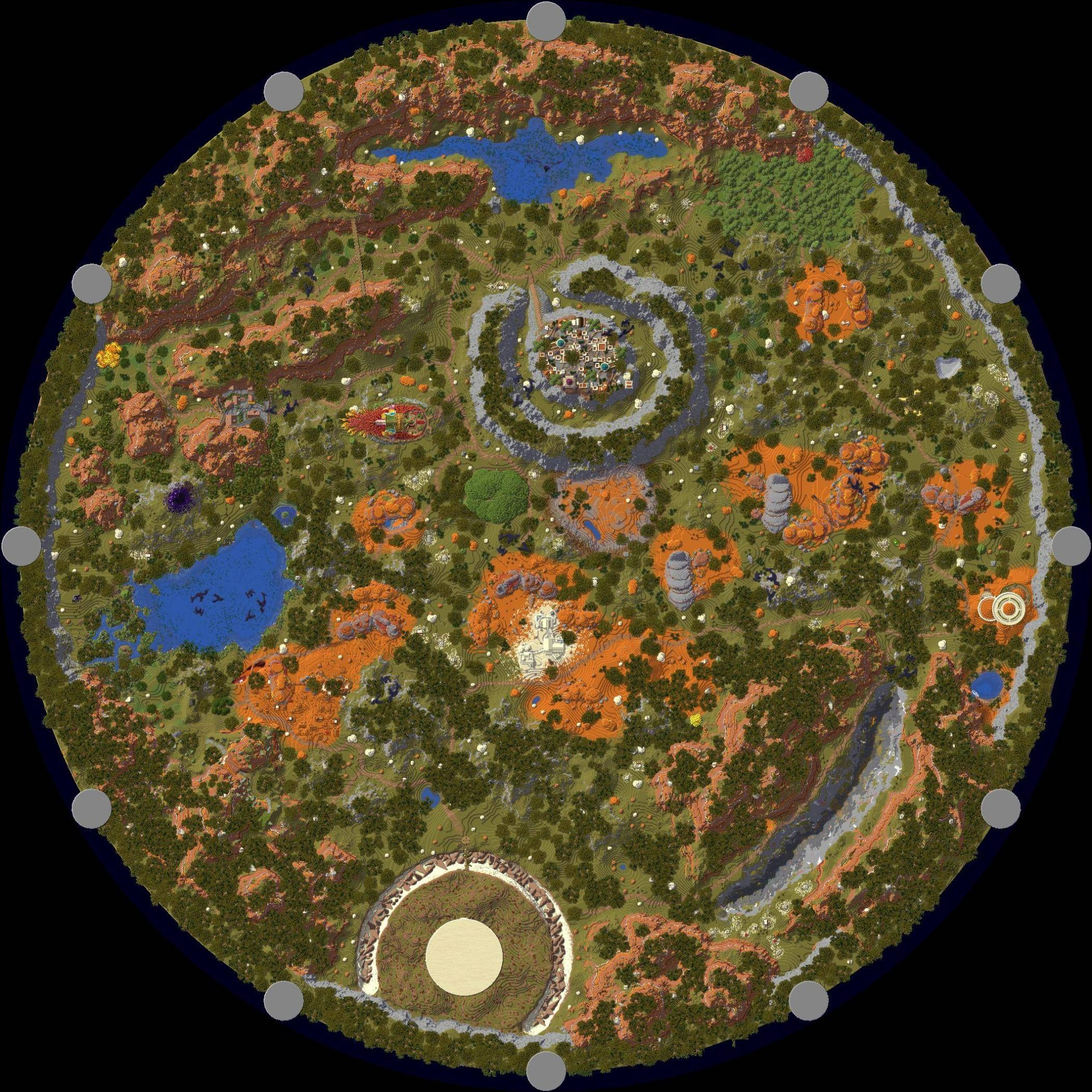
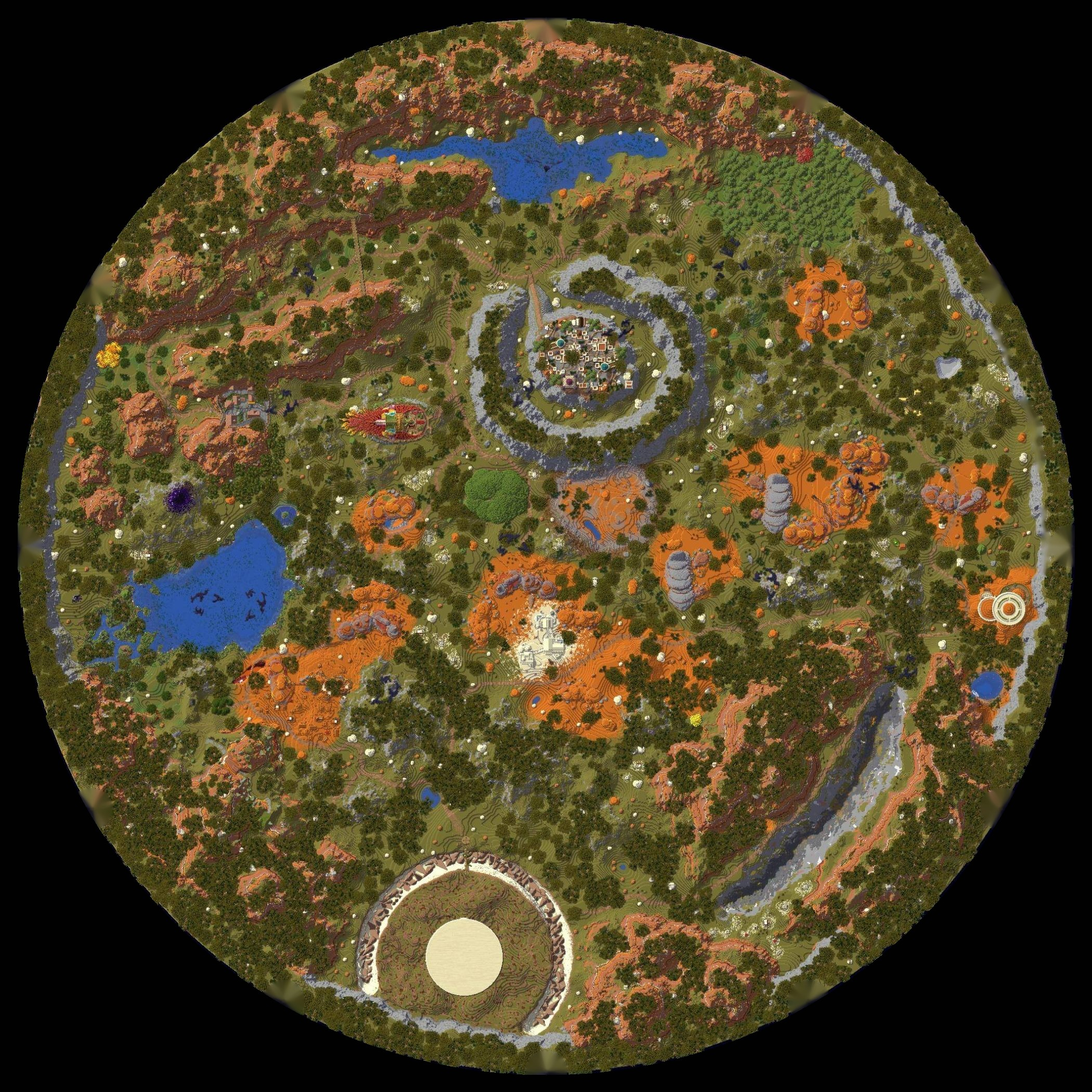
地下城排序與首領塔卡片、切樓層清掉舊頁；第 2 層地圖切圓、怪物區框線；滾輪縮放更順
Claude-Session: https://claude.ai/code/session_01TCxb7TWhtNUuHK8FFaNG7L

diff --git a/index.html b/index.html
@@ -2,7 +2,7 @@
 <html lang="zh-Hant">
 <head>
 <meta charset="utf-8">
-<meta name="sao-build" content="b604d936e0">
+<meta name="sao-build" content="c1f9dfb53b">
 <meta name="viewport" content="width=device-width, initial-scale=1, viewport-fit=cover">
 <meta name="description" content="阿爾戈的攻略本：SAO Minecraft 艾恩葛朗特（Aincrad）攻略，地圖、怪物、裝備、配方、任務、地下城、職業技能、世界王。">
 <style>:root{color-scheme:light;padding-top:env(safe-area-inset-top,0px);padding-bottom:env(safe-area-inset-bottom,0px)}body{margin:0;font:14px system-ui,-apple-system,"Segoe UI",sans-serif}img{max-width:100%}[hidden]{display:none!important}</style>
@@ -255,7 +255,7 @@ label.check{display:flex;gap:8px;align-items:center;font-size:13px;cursor:pointe
 /* ---------- map ---------- */
 .stage{position:relative;overflow:hidden;background:var(--stage);touch-action:none;cursor:grab;min-height:0}
 .stage.dragging{cursor:grabbing} .stage.edit{cursor:crosshair}
-.world{position:absolute;left:0;top:0;width:1000px;height:1000px;transform-origin:0 0;--inv:1}
+.world{position:absolute;left:0;top:0;width:1000px;height:1000px;transform-origin:0 0;--inv:1;will-change:transform}
 .world img.map{width:1000px;height:1000px;max-width:none;display:block;user-select:none;-webkit-user-drag:none;pointer-events:none}
 .town{position:absolute;transform:translate(-50%,-8px) scale(var(--inv));transform-origin:50% 8px;display:flex;flex-direction:column;align-items:center;gap:2px;background:none;border:0;padding:0;cursor:pointer;z-index:5}
 .town .pin{box-sizing:border-box;width:16px;height:16px;transform:rotate(45deg) scale(.82);background:var(--accent);border:2px solid #fff;box-shadow:0 1px 4px rgba(0,0,0,.6)}
@@ -394,6 +394,7 @@ aside.mapside{background:var(--panel);border-left:1px solid var(--line);display:
   padding-block:5px;padding-left:max(16px,env(safe-area-inset-left,0px));padding-right:max(16px,env(safe-area-inset-right,0px))}
 .floorinfo b{font-family:var(--f-display);color:var(--fg);font-size:13.5px}
 .floorinfo .soon{color:var(--warn)}
+.card.dgtower{border-color:color-mix(in srgb,var(--boss) 55%,var(--line));background:color-mix(in srgb,var(--boss) 7%,var(--panel))}.pill.dgtw{border-color:var(--boss);color:var(--boss);font-weight:600}
 @media (max-width:820px){.floorinfo:not(:has(.soon,.pausebar)){display:none}.floorinfo>:not(.soon,.pausebar){display:none}}
 .floorinfo .pausebar{flex:1 1 100%;font-size:15.5px;line-height:1.55;color:var(--fg);background:color-mix(in srgb,#d32f2f 15%,transparent);border:1px solid color-mix(in srgb,#d32f2f 45%,transparent);border-left:5px solid #d32f2f;border-radius:5px;padding:9px 14px;margin:3px 0;text-wrap:balance}.floorinfo .pausebar b{color:#d32f2f;font-weight:700}@media (prefers-color-scheme:dark){:root:not([data-theme="light"]) .floorinfo .pausebar b{color:#ff7b7b}}:root[data-theme="dark"] .floorinfo .pausebar b{color:#ff7b7b}
 @media (max-width:820px){.floorinfo .pausebar{font-size:12.5px;padding:5px 10px;border-left-width:4px;cursor:pointer}.floorinfo .pausebar>span{display:-webkit-box;-webkit-box-orient:vertical;-webkit-line-clamp:2;overflow:hidden}.floorinfo .pausebar.open>span{display:block;-webkit-line-clamp:unset}}   /* phones: 2 lines, tap to read all; site-wide pause notice (user 2026-11-09: the collab-only note was not visible enough) */
@@ -888,7 +889,7 @@ h3.sec .c{font-family:var(--f-mono);letter-spacing:0}
 </aside>
 
 <script src="data.js?v=a4992864"></script>
-<script src="data23.js?v=0ff12f91"></script>
+<script src="data23.js?v=1c64a18a"></script>
 <script src="bosses.js?v=77b7ad43"></script>
 <script src="reports.js?v=091d538a"></script>
 <script src="hints.js?v=fcf000d6"></script>
@@ -899,7 +900,7 @@ h3.sec .c{font-family:var(--f-mono);letter-spacing:0}
 <script src="props.js?v=a6c9503f"></script>
 <script src="gameinfo.js?v=0e23c6f2"></script><script src="buyback.js?v=4371e5e3"></script>
 <script src="npcs.js?v=e7d05b11"></script>
-<script src="changelog.js?v=d8cb16fa"></script>
+<script src="changelog.js?v=a7a2fee3"></script>
 <script src="recipes.js?v=9163d1ce"></script>
 <script src="jmmeta.js?v=7238858b"></script>
 <script src="formcfg.js?v=54663be2"></script>
@@ -1765,16 +1766,21 @@ const clsWeap=c=>Object.entries(Object.assign({},c.weapons,(n=>n?{catalyst:n}:{}
 const CLS_OFF=new Set(["guerrier","assassin","mage","shaman","archer"]);const cN=c=>CLS_OFF.has(c.id)?c.zh:c.name;const cSub=c=>(CLS_OFF.has(c.id)?c.name:c.zh)+"・"+c.role;
 const clsSoon=c=>!Object.keys(c.weapons).length&&!c.base.length;
 // ---- dungeons tab (preliminary, user 2026-11-02: only the dungeon names for now; floor-boss towers are left out) ----
-function renderDungeons(){const s=Sq();const a=spotsOf(FL).filter(x=>x.kind==="dungeon"&&(!s||norm([x.n,x.zh].join(" ")).includes(s)));   // floor-boss towers too (user 2026-11-11)
+const isTowerSp=sp=>/樓層首領/.test(sp.zh||"");
+function renderDungeons(){const s=Sq();const a0=spotsOf(FL).filter(x=>x.kind==="dungeon"&&(!s||norm([x.n,x.zh].join(" ")).includes(s)));   // floor-boss towers too (user 2026-11-11)
+  const a=a0.filter(isTowerSp).concat(a0.filter(x=>!isTowerSp(x)));   // order: event, floor-boss tower, other dungeons (user 2026-11-11)
   const ev=FL===1?EVT.dungeons.filter(d=>!s||norm(JSON.stringify(d)).includes(s)):[];   // the event dungeon is entered from floor 1 (user 2026-11-11: 二三層出現了 Sanctuary of Souls)
   $("cDg").textContent=`${a.length+ev.length} 個`;
   // card icon = the dungeon's own key (user 2026-11-07「圖示用各自的鑰匙」); no key known / no clean key picture → the old emoji
   const keyOf=sp=>{const k=dgKeys(sp).hit[0];return k?{r:k,n:recZh(k)||k.en}:null};
   const ic=(k,emo)=>k?`<span class="th dgk" style="--ring:var(--boss)" aria-hidden="true">${recIcon(k.r,30)}</span>`:`<span class="th" style="--ring:var(--boss)" aria-hidden="true">${emo}</span>`;
-  $("lDg").innerHTML=ev.map(d=>`<button class="card" data-go="d|${d.id}" data-key="d|${d.id}"><div class="chead">${ic(null,"🎃")}<div class="cname"><b>${esc(d.n)}</b><span>${esc(d.zh)}</span></div></div><div class="cmeta"><span class="pill">限時活動</span><span class="pill">各層通用</span></div><div class="muted dgkn">鑰匙：${esc(d.key.n)}</div></button>`).join("")
-    +a.map(sp=>{const k=keyOf(sp);return`<button class="card" data-go="s|${sp.id}" data-key="s|${sp.id}"><div class="chead">${ic(k,"⚔")}<div class="cname"><b>${esc(pN(sp))}</b><span>${esc(pN(sp)!==sp.n?sp.n:sp.zh)}</span></div></div><div class="muted dgkn">${k?"鑰匙："+esc(k.n):"鑰匙：還沒有資料"}</div></button>`}).join("")||`<div class="empty-note">${s?"沒有符合的地下城。":"這一層還沒有地下城資料。"}</div>`;
+  $("lDg").innerHTML=ev.map(d=>`<button class="card" data-go="d|${d.id}" data-key="d|${d.id}"><div class="chead">${ic(null,"🎃")}<div class="cname"><b>${esc(d.n)}</b><span>${esc(d.zh)}</span></div></div><div class="cmeta"><span class="pill">限時活動</span></div><div class="muted dgkn">鑰匙：${esc(d.key.n)}</div></button>`).join("")
+    +a.map(sp=>{const k=keyOf(sp),tw=isTowerSp(sp);return`<button class="card${tw?" dgtower":""}" data-go="s|${sp.id}" data-key="s|${sp.id}"><div class="chead">${ic(k,tw?"🗼":"⚔")}<div class="cname"><b>${esc(pN(sp))}</b><span>${esc(pN(sp)!==sp.n?sp.n:sp.zh)}</span></div></div>${tw?`<div class="cmeta"><span class="pill dgtw">樓層首領塔</span></div>`:""}<div class="muted dgkn">${k?"鑰匙："+esc(k.n):"鑰匙：還沒有資料"}</div></button>`}).join("")||`<div class="empty-note">${s?"沒有符合的地下城。":"這一層還沒有地下城資料。"}</div>`;
   bindGo($("lDg"));
-  if(innerWidth>820&&(ev.length||a.length)&&(panel.hidden||!isDgP(stack[0]))){const all=[...ev.map(d=>"d|"+d.id),...a.map(sp=>"s|"+sp.id)];const [t,i]=(all.includes(lastDg)?lastDg:all[0]).split("|");openP(t,i)}
+  // keep the page in step with this floor's list: switching floors used to leave the previous floor's dungeon on the page (user 2026-11-11)
+  if(innerWidth>820){const all=[...ev.map(d=>"d|"+d.id),...a.map(sp=>"s|"+sp.id)],cur=stack[0]&&isDgP(stack[0])?stack[0].type+"|"+stack[0].id:"";
+    if(!all.length){if(!panel.hidden&&cur)closeP()}
+    else if(panel.hidden||!all.includes(cur)){const [t,i]=(all.includes(lastDg)?lastDg:all[0]).split("|");openP(t,i)}}
   markSel();fitClsPanel()}
 function evDgDetail(id){const d=EVT.dungeons.find(x=>x.id===id);if(!d)return`<div class="note">找不到這個活動。</div>`;
   const tb=(head,rows)=>`<div class="tblwrap"><table class="btbl"><thead><tr>${head.map(h=>`<th>${h}</th>`).join("")}</tr></thead><tbody>${rows.map(r=>`<tr>${r.map(c=>`<td>${c}</td>`).join("")}</tr>`).join("")}</tbody></table></div>`;
@@ -3146,14 +3152,24 @@ function updateTiles(){tileRaf=0;const m=MP();if(!useTiles()){if(TL.size){tilesE
   clearTimeout(tileGC);tileGC=setTimeout(()=>{TL.forEach((im,k)=>{if(!want.has(k)&&!/^[01]\//.test(k)){im.remove();TL.delete(k)}})},700)}
 const schedTiles=()=>{if(!tileRaf)tileRaf=requestAnimationFrame(updateTiles)};
 window.addEventListener("resize",schedTiles);
-function apply(){schedTiles();declutterSoon();world.style.transform=`translate(${tx}px,${ty}px) scale(${sc})`;const zr=fitSc()/sc;const k=Math.max(.8,Math.min(1,fitSc()/.75)),screen=k*Math.max(.92,Math.min(1.08,1.08*Math.pow(zr,.12)));world.style.setProperty("--inv",screen/sc);world.style.setProperty("--tk",Math.max(.62,Math.min(1,.62*Math.pow(1/zr,.23))).toFixed(3));world.style.setProperty("--areaw",Math.max(.7,Math.min(2,2*Math.pow(zr,.5))).toFixed(2));world.classList.toggle("compact",sc<fitSc()*1.9)}
+// wheel zoom felt laggy (user 2026-11-11): the label-size variables restyle every marker, so while the wheel is turning they are only
+// refreshed when the zoom changed by 12 % or more, and once more 120 ms after the last wheel step; the map transform itself moves every frame
+let ZOOMING=false,zoomEndT=0,varSc=0;
+function apply(){schedTiles();declutterSoon();world.style.transform=`translate(${tx}px,${ty}px) scale(${sc})`;
+  if(ZOOMING&&varSc&&Math.abs(Math.log(sc/varSc))<.12){clearTimeout(zoomEndT);zoomEndT=setTimeout(()=>{ZOOMING=false;applyVars()},120);return}
+  applyVars()}
+function applyVars(){varSc=sc;const zr=fitSc()/sc;const k=Math.max(.8,Math.min(1,fitSc()/.75)),screen=k*Math.max(.92,Math.min(1.08,1.08*Math.pow(zr,.12)));world.style.setProperty("--inv",screen/sc);world.style.setProperty("--tk",Math.max(.62,Math.min(1,.62*Math.pow(1/zr,.23))).toFixed(3));world.style.setProperty("--areaw",Math.max(.7,Math.min(2,2*Math.pow(zr,.5))).toFixed(2));world.classList.toggle("compact",sc<fitSc()*1.9)}
 function fit(){const r=stage.getBoundingClientRect();if(!r.width)return;sc=fitSc();tx=(r.width-1000*sc)/2;ty=(r.height-1000*sc)/2;apply();fitted=true}
 function zoomAt(f,cx,cy){const ns=Math.max(fitSc()*.8,Math.min(fitSc()*10,sc*f));const k=ns/sc;tx=cx-(cx-tx)*k;ty=cy-(cy-ty)*k;sc=ns;apply()}
 function centerOn(bx,bz,minZoom){if(!MP())return;if(!fitted)fit();const r=stage.getBoundingClientRect();sc=Math.max(sc,fitSc()*(minZoom||2.2));
   const mobile=matchMedia("(max-width:820px)").matches;const cx=mobile?r.width/2:(r.width-(panel.hidden?0:Math.max(0,410-(innerWidth-r.right))))/2;
   tx=cx-toPxX(bx)*sc;ty=r.height/2-toPxZ(bz)*sc;apply()}
 window.__centerOn=centerOn;   // tests/jm_pack_test.py
-stage.addEventListener("wheel",e=>{if(!MP())return;e.preventDefault();const r=stage.getBoundingClientRect();zoomAt(e.deltaY<0?1.15:1/1.15,e.clientX-r.left,e.clientY-r.top)},{passive:false});
+// one zoom step per animation frame; trackpads send many small deltas, a mouse notch is about 100 px (≈ ×1.2)
+let wheelF=1,wheelXY=null,wheelRaf=0;
+stage.addEventListener("wheel",e=>{if(!MP())return;e.preventDefault();const r=stage.getBoundingClientRect();const d=e.deltaMode===1?e.deltaY*33:e.deltaMode===2?e.deltaY*400:e.deltaY;
+  wheelF*=Math.exp(-Math.max(-150,Math.min(150,d))*.0018);wheelXY=[e.clientX-r.left,e.clientY-r.top];ZOOMING=true;
+  if(!wheelRaf)wheelRaf=requestAnimationFrame(()=>{wheelRaf=0;const f=wheelF;wheelF=1;zoomAt(f,wheelXY[0],wheelXY[1])})},{passive:false});
 const pts=new Map();let moved=0,pinch0=null;
 stage.addEventListener("pointerdown",e=>{if(!MP()||e.target.closest(".zoombtns"))return;pts.set(e.pointerId,{x:e.clientX,y:e.clientY});moved=0;if(pts.size===2){const [a,b]=[...pts.values()];pinch0={d:Math.hypot(a.x-b.x,a.y-b.y),sc}}});
 window.addEventListener("pointermove",e=>{if(!MP())return;const r=stage.getBoundingClientRect();

diff --git a/src/index.html b/src/index.html
@@ -247,7 +247,7 @@ label.check{display:flex;gap:8px;align-items:center;font-size:13px;cursor:pointe
 /* ---------- map ---------- */
 .stage{position:relative;overflow:hidden;background:var(--stage);touch-action:none;cursor:grab;min-height:0}
 .stage.dragging{cursor:grabbing} .stage.edit{cursor:crosshair}
-.world{position:absolute;left:0;top:0;width:1000px;height:1000px;transform-origin:0 0;--inv:1}
+.world{position:absolute;left:0;top:0;width:1000px;height:1000px;transform-origin:0 0;--inv:1;will-change:transform}
 .world img.map{width:1000px;height:1000px;max-width:none;display:block;user-select:none;-webkit-user-drag:none;pointer-events:none}
 .town{position:absolute;transform:translate(-50%,-8px) scale(var(--inv));transform-origin:50% 8px;display:flex;flex-direction:column;align-items:center;gap:2px;background:none;border:0;padding:0;cursor:pointer;z-index:5}
 .town .pin{box-sizing:border-box;width:16px;height:16px;transform:rotate(45deg) scale(.82);background:var(--accent);border:2px solid #fff;box-shadow:0 1px 4px rgba(0,0,0,.6)}
@@ -386,6 +386,7 @@ aside.mapside{background:var(--panel);border-left:1px solid var(--line);display:
   padding-block:5px;padding-left:max(16px,env(safe-area-inset-left,0px));padding-right:max(16px,env(safe-area-inset-right,0px))}
 .floorinfo b{font-family:var(--f-display);color:var(--fg);font-size:13.5px}
 .floorinfo .soon{color:var(--warn)}
+.card.dgtower{border-color:color-mix(in srgb,var(--boss) 55%,var(--line));background:color-mix(in srgb,var(--boss) 7%,var(--panel))}.pill.dgtw{border-color:var(--boss);color:var(--boss);font-weight:600}
 @media (max-width:820px){.floorinfo:not(:has(.soon,.pausebar)){display:none}.floorinfo>:not(.soon,.pausebar){display:none}}
 .floorinfo .pausebar{flex:1 1 100%;font-size:15.5px;line-height:1.55;color:var(--fg);background:color-mix(in srgb,#d32f2f 15%,transparent);border:1px solid color-mix(in srgb,#d32f2f 45%,transparent);border-left:5px solid #d32f2f;border-radius:5px;padding:9px 14px;margin:3px 0;text-wrap:balance}.floorinfo .pausebar b{color:#d32f2f;font-weight:700}@media (prefers-color-scheme:dark){:root:not([data-theme="light"]) .floorinfo .pausebar b{color:#ff7b7b}}:root[data-theme="dark"] .floorinfo .pausebar b{color:#ff7b7b}
 @media (max-width:820px){.floorinfo .pausebar{font-size:12.5px;padding:5px 10px;border-left-width:4px;cursor:pointer}.floorinfo .pausebar>span{display:-webkit-box;-webkit-box-orient:vertical;-webkit-line-clamp:2;overflow:hidden}.floorinfo .pausebar.open>span{display:block;-webkit-line-clamp:unset}}   /* phones: 2 lines, tap to read all; site-wide pause notice (user 2026-11-09: the collab-only note was not visible enough) */
@@ -1754,16 +1755,21 @@ const clsWeap=c=>Object.entries(Object.assign({},c.weapons,(n=>n?{catalyst:n}:{}
 const CLS_OFF=new Set(["guerrier","assassin","mage","shaman","archer"]);const cN=c=>CLS_OFF.has(c.id)?c.zh:c.name;const cSub=c=>(CLS_OFF.has(c.id)?c.name:c.zh)+"・"+c.role;
 const clsSoon=c=>!Object.keys(c.weapons).length&&!c.base.length;
 // ---- dungeons tab (preliminary, user 2026-11-02: only the dungeon names for now; floor-boss towers are left out) ----
-function renderDungeons(){const s=Sq();const a=spotsOf(FL).filter(x=>x.kind==="dungeon"&&(!s||norm([x.n,x.zh].join(" ")).includes(s)));   // floor-boss towers too (user 2026-11-11)
+const isTowerSp=sp=>/樓層首領/.test(sp.zh||"");
+function renderDungeons(){const s=Sq();const a0=spotsOf(FL).filter(x=>x.kind==="dungeon"&&(!s||norm([x.n,x.zh].join(" ")).includes(s)));   // floor-boss towers too (user 2026-11-11)
+  const a=a0.filter(isTowerSp).concat(a0.filter(x=>!isTowerSp(x)));   // order: event, floor-boss tower, other dungeons (user 2026-11-11)
   const ev=FL===1?EVT.dungeons.filter(d=>!s||norm(JSON.stringify(d)).includes(s)):[];   // the event dungeon is entered from floor 1 (user 2026-11-11: 二三層出現了 Sanctuary of Souls)
   $("cDg").textContent=`${a.length+ev.length} 個`;
   // card icon = the dungeon's own key (user 2026-11-07「圖示用各自的鑰匙」); no key known / no clean key picture → the old emoji
   const keyOf=sp=>{const k=dgKeys(sp).hit[0];return k?{r:k,n:recZh(k)||k.en}:null};
   const ic=(k,emo)=>k?`<span class="th dgk" style="--ring:var(--boss)" aria-hidden="true">${recIcon(k.r,30)}</span>`:`<span class="th" style="--ring:var(--boss)" aria-hidden="true">${emo}</span>`;
-  $("lDg").innerHTML=ev.map(d=>`<button class="card" data-go="d|${d.id}" data-key="d|${d.id}"><div class="chead">${ic(null,"🎃")}<div class="cname"><b>${esc(d.n)}</b><span>${esc(d.zh)}</span></div></div><div class="cmeta"><span class="pill">限時活動</span><span class="pill">各層通用</span></div><div class="muted dgkn">鑰匙：${esc(d.key.n)}</div></button>`).join("")
-    +a.map(sp=>{const k=keyOf(sp);return`<button class="card" data-go="s|${sp.id}" data-key="s|${sp.id}"><div class="chead">${ic(k,"⚔")}<div class="cname"><b>${esc(pN(sp))}</b><span>${esc(pN(sp)!==sp.n?sp.n:sp.zh)}</span></div></div><div class="muted dgkn">${k?"鑰匙："+esc(k.n):"鑰匙：還沒有資料"}</div></button>`}).join("")||`<div class="empty-note">${s?"沒有符合的地下城。":"這一層還沒有地下城資料。"}</div>`;
+  $("lDg").innerHTML=ev.map(d=>`<button class="card" data-go="d|${d.id}" data-key="d|${d.id}"><div class="chead">${ic(null,"🎃")}<div class="cname"><b>${esc(d.n)}</b><span>${esc(d.zh)}</span></div></div><div class="cmeta"><span class="pill">限時活動</span></div><div class="muted dgkn">鑰匙：${esc(d.key.n)}</div></button>`).join("")
+    +a.map(sp=>{const k=keyOf(sp),tw=isTowerSp(sp);return`<button class="card${tw?" dgtower":""}" data-go="s|${sp.id}" data-key="s|${sp.id}"><div class="chead">${ic(k,tw?"🗼":"⚔")}<div class="cname"><b>${esc(pN(sp))}</b><span>${esc(pN(sp)!==sp.n?sp.n:sp.zh)}</span></div></div>${tw?`<div class="cmeta"><span class="pill dgtw">樓層首領塔</span></div>`:""}<div class="muted dgkn">${k?"鑰匙："+esc(k.n):"鑰匙：還沒有資料"}</div></button>`}).join("")||`<div class="empty-note">${s?"沒有符合的地下城。":"這一層還沒有地下城資料。"}</div>`;
   bindGo($("lDg"));
-  if(innerWidth>820&&(ev.length||a.length)&&(panel.hidden||!isDgP(stack[0]))){const all=[...ev.map(d=>"d|"+d.id),...a.map(sp=>"s|"+sp.id)];const [t,i]=(all.includes(lastDg)?lastDg:all[0]).split("|");openP(t,i)}
+  // keep the page in step with this floor's list: switching floors used to leave the previous floor's dungeon on the page (user 2026-11-11)
+  if(innerWidth>820){const all=[...ev.map(d=>"d|"+d.id),...a.map(sp=>"s|"+sp.id)],cur=stack[0]&&isDgP(stack[0])?stack[0].type+"|"+stack[0].id:"";
+    if(!all.length){if(!panel.hidden&&cur)closeP()}
+    else if(panel.hidden||!all.includes(cur)){const [t,i]=(all.includes(lastDg)?lastDg:all[0]).split("|");openP(t,i)}}
   markSel();fitClsPanel()}
 function evDgDetail(id){const d=EVT.dungeons.find(x=>x.id===id);if(!d)return`<div class="note">找不到這個活動。</div>`;
   const tb=(head,rows)=>`<div class="tblwrap"><table class="btbl"><thead><tr>${head.map(h=>`<th>${h}</th>`).join("")}</tr></thead><tbody>${rows.map(r=>`<tr>${r.map(c=>`<td>${c}</td>`).join("")}</tr>`).join("")}</tbody></table></div>`;
@@ -3135,14 +3141,24 @@ function updateTiles(){tileRaf=0;const m=MP();if(!useTiles()){if(TL.size){tilesE
   clearTimeout(tileGC);tileGC=setTimeout(()=>{TL.forEach((im,k)=>{if(!want.has(k)&&!/^[01]\//.test(k)){im.remove();TL.delete(k)}})},700)}
 const schedTiles=()=>{if(!tileRaf)tileRaf=requestAnimationFrame(updateTiles)};
 window.addEventListener("resize",schedTiles);
-function apply(){schedTiles();declutterSoon();world.style.transform=`translate(${tx}px,${ty}px) scale(${sc})`;const zr=fitSc()/sc;const k=Math.max(.8,Math.min(1,fitSc()/.75)),screen=k*Math.max(.92,Math.min(1.08,1.08*Math.pow(zr,.12)));world.style.setProperty("--inv",screen/sc);world.style.setProperty("--tk",Math.max(.62,Math.min(1,.62*Math.pow(1/zr,.23))).toFixed(3));world.style.setProperty("--areaw",Math.max(.7,Math.min(2,2*Math.pow(zr,.5))).toFixed(2));world.classList.toggle("compact",sc<fitSc()*1.9)}
+// wheel zoom felt laggy (user 2026-11-11): the label-size variables restyle every marker, so while the wheel is turning they are only
+// refreshed when the zoom changed by 12 % or more, and once more 120 ms after the last wheel step; the map transform itself moves every frame
+let ZOOMING=false,zoomEndT=0,varSc=0;
+function apply(){schedTiles();declutterSoon();world.style.transform=`translate(${tx}px,${ty}px) scale(${sc})`;
+  if(ZOOMING&&varSc&&Math.abs(Math.log(sc/varSc))<.12){clearTimeout(zoomEndT);zoomEndT=setTimeout(()=>{ZOOMING=false;applyVars()},120);return}
+  applyVars()}
+function applyVars(){varSc=sc;const zr=fitSc()/sc;const k=Math.max(.8,Math.min(1,fitSc()/.75)),screen=k*Math.max(.92,Math.min(1.08,1.08*Math.pow(zr,.12)));world.style.setProperty("--inv",screen/sc);world.style.setProperty("--tk",Math.max(.62,Math.min(1,.62*Math.pow(1/zr,.23))).toFixed(3));world.style.setProperty("--areaw",Math.max(.7,Math.min(2,2*Math.pow(zr,.5))).toFixed(2));world.classList.toggle("compact",sc<fitSc()*1.9)}
 function fit(){const r=stage.getBoundingClientRect();if(!r.width)return;sc=fitSc();tx=(r.width-1000*sc)/2;ty=(r.height-1000*sc)/2;apply();fitted=true}
 function zoomAt(f,cx,cy){const ns=Math.max(fitSc()*.8,Math.min(fitSc()*10,sc*f));const k=ns/sc;tx=cx-(cx-tx)*k;ty=cy-(cy-ty)*k;sc=ns;apply()}
 function centerOn(bx,bz,minZoom){if(!MP())return;if(!fitted)fit();const r=stage.getBoundingClientRect();sc=Math.max(sc,fitSc()*(minZoom||2.2));
   const mobile=matchMedia("(max-width:820px)").matches;const cx=mobile?r.width/2:(r.width-(panel.hidden?0:Math.max(0,410-(innerWidth-r.right))))/2;
   tx=cx-toPxX(bx)*sc;ty=r.height/2-toPxZ(bz)*sc;apply()}
 window.__centerOn=centerOn;   // tests/jm_pack_test.py
-stage.addEventListener("wheel",e=>{if(!MP())return;e.preventDefault();const r=stage.getBoundingClientRect();zoomAt(e.deltaY<0?1.15:1/1.15,e.clientX-r.left,e.clientY-r.top)},{passive:false});
+// one zoom step per animation frame; trackpads send many small deltas, a mouse notch is about 100 px (≈ ×1.2)
+let wheelF=1,wheelXY=null,wheelRaf=0;
+stage.addEventListener("wheel",e=>{if(!MP())return;e.preventDefault();const r=stage.getBoundingClientRect();const d=e.deltaMode===1?e.deltaY*33:e.deltaMode===2?e.deltaY*400:e.deltaY;
+  wheelF*=Math.exp(-Math.max(-150,Math.min(150,d))*.0018);wheelXY=[e.clientX-r.left,e.clientY-r.top];ZOOMING=true;
+  if(!wheelRaf)wheelRaf=requestAnimationFrame(()=>{wheelRaf=0;const f=wheelF;wheelF=1;zoomAt(f,wheelXY[0],wheelXY[1])})},{passive:false});
 const pts=new Map();let moved=0,pinch0=null;
 stage.addEventListener("pointerdown",e=>{if(!MP()||e.target.closest(".zoombtns"))return;pts.set(e.pointerId,{x:e.clientX,y:e.clientY});moved=0;if(pts.size===2){const [a,b]=[...pts.values()];pinch0={d:Math.hypot(a.x-b.x,a.y-b.y),sc}}});
 window.addEventListener("pointermove",e=>{if(!MP())return;const r=stage.getBoundingClientRect();

diff --git a/data23.js b/data23.js
@@ -82,15 +82,15 @@ const F2 = {
     { id:"f2boss", kind:"dungeon", n:"Taurus Tower", zh:"牛人之塔（樓層首領塔）", old:"Tour du Boss", x:-160, z:795, src:"ref", zone:["taurusD","taurusT"], note:"位置取自參考互動地圖（玩家製作的 Beta 資料；第 2 層座標還沒對過遊戲，可能差幾十格）。 wiki 第 2 層地圖標的「Tour du Boss」約在 X -260 Z 738。樓層首領塔，官網 11/9 新聞的「Antre d'Astérius」（阿斯忒里奧斯巢穴）地下城沒有寫開放。" },
     { id:"f2hive", kind:"dungeon", n:"Melliona's Hive Dungeon", zh:"Melliona 蜂巢（地下城）", x:506, z:-724, src:"ref", zone:"hive", note:"位置取自參考互動地圖（玩家製作的 Beta 資料；第 2 層座標還沒對過遊戲，可能差幾十格）。 官方圖鑑有「Clé de Melliona」（Melliona 之鑰），應該是這個地下城的鑰匙。" },
     { id:"f2tomb", kind:"dungeon", n:"Necromancer's Tomb Dungeon", zh:"死靈法師之墓（地下城）", x:721, z:244, src:"ref", zone:"tomb", u:1, note:"位置取自參考互動地圖（玩家製作的 Beta 資料；第 2 層座標還沒對過遊戲，可能差幾十格）。" },
-    { id:"f2bull", kind:"mob", n:"Lake of the Bulls", zh:"公牛湖", x:118, z:-68, src:"ref", zone:"bull", note:"位置取自參考互動地圖（玩家製作的 Beta 資料；第 2 層座標還沒對過遊戲，可能差幾十格）。" },
-    { id:"f2sweet", kind:"mob", n:"Sweet Forest", zh:"甜蜜森林", x:484, z:-665, src:"ref", zone:"sweet", note:"位置取自參考互動地圖（玩家製作的 Beta 資料；第 2 層座標還沒對過遊戲，可能差幾十格）。" },
-    { id:"f2silver", kind:"mob", n:"Silver Fang Desert", zh:"銀牙沙漠", x:-372, z:-556, src:"ref", zone:"silver", note:"位置取自參考互動地圖（玩家製作的 Beta 資料；第 2 層座標還沒對過遊戲，可能差幾十格）。" },
-    { id:"f2ember", kind:"mob", n:"Brazier Nest", zh:"餘燼之巢", x:-581, z:234, src:"ref", zone:"ember", u:1, note:"位置取自參考互動地圖（玩家製作的 Beta 資料；第 2 層座標還沒對過遊戲，可能差幾十格）。" },
-    { id:"f2emerald", kind:"mob", n:"Emerald Wings Forest", zh:"翠翼森林", x:-550, z:476, src:"ref", zone:"emerald", note:"位置取自參考互動地圖（玩家製作的 Beta 資料；第 2 層座標還沒對過遊戲，可能差幾十格）。" },
-    { id:"f2bay", kind:"mob", n:"Wavy Monster Bay", zh:"漣漪怪物灣", x:-780, z:171, src:"ref", zone:"bay", note:"位置取自參考互動地圖（玩家製作的 Beta 資料；第 2 層座標還沒對過遊戲，可能差幾十格）。" },
-    { id:"f2khesun", kind:"mob", n:"Sanctuary of Khesun", zh:"Khesûn 聖所", x:-6, z:181, src:"ref", zone:"khesun", note:"位置取自參考互動地圖（玩家製作的 Beta 資料；第 2 層座標還沒對過遊戲，可能差幾十格）。" },
-    { id:"f2veins", kind:"mob", n:"Sablemor Veins", zh:"Sablemor 礦脈", x:225, z:295, src:"ref", zone:"veins", u:1, note:"位置取自參考互動地圖（玩家製作的 Beta 資料；第 2 層座標還沒對過遊戲，可能差幾十格）。" },
-    { id:"f2oasis", kind:"mob", n:"Secret Oasis", zh:"秘密綠洲", x:798, z:253, src:"ref", zone:"oasis", note:"位置取自參考互動地圖（玩家製作的 Beta 資料；第 2 層座標還沒對過遊戲，可能差幾十格）。" },
+    { id:"f2bull", area:[[20,-120],[90,-165],[190,-140],[205,-60],[170,10],[60,15],[15,-50]], kind:"mob", n:"Lake of the Bulls", zh:"公牛湖", x:118, z:-68, src:"ref", zone:"bull", note:"位置取自參考互動地圖（玩家製作的 Beta 資料；第 2 層座標還沒對過遊戲，可能差幾十格）。" },
+    { id:"f2sweet", area:[[330,-820],[420,-900],[600,-870],[640,-760],[600,-650],[450,-640],[340,-700]], kind:"mob", n:"Sweet Forest", zh:"甜蜜森林", x:484, z:-665, src:"ref", zone:"sweet", note:"位置取自參考互動地圖（玩家製作的 Beta 資料；第 2 層座標還沒對過遊戲，可能差幾十格）。" },
+    { id:"f2silver", area:[[-560,-640],[-420,-720],[-230,-680],[-170,-560],[-240,-450],[-420,-430],[-560,-500]], kind:"mob", n:"Silver Fang Desert", zh:"銀牙沙漠", x:-372, z:-556, src:"ref", zone:"silver", note:"位置取自參考互動地圖（玩家製作的 Beta 資料；第 2 層座標還沒對過遊戲，可能差幾十格）。" },
+    { id:"f2ember", area:[[-720,190],[-620,140],[-470,150],[-430,260],[-500,370],[-660,370],[-730,290]], kind:"mob", n:"Brazier Nest", zh:"餘燼之巢", x:-581, z:234, src:"ref", zone:"ember", u:1, note:"位置取自參考互動地圖（玩家製作的 Beta 資料；第 2 層座標還沒對過遊戲，可能差幾十格）。" },
+    { id:"f2emerald", area:[[-720,420],[-560,390],[-400,420],[-380,520],[-500,590],[-680,570]], kind:"mob", n:"Emerald Wings Forest", zh:"翠翼森林", x:-550, z:476, src:"ref", zone:"emerald", note:"位置取自參考互動地圖（玩家製作的 Beta 資料；第 2 層座標還沒對過遊戲，可能差幾十格）。" },
+    { id:"f2bay", area:[[-920,40],[-860,-30],[-720,-20],[-560,-10],[-560,120],[-700,170],[-880,180]], kind:"mob", n:"Wavy Monster Bay", zh:"漣漪怪物灣", x:-780, z:171, src:"ref", zone:"bay", note:"位置取自參考互動地圖（玩家製作的 Beta 資料；第 2 層座標還沒對過遊戲，可能差幾十格）。" },
+    { id:"f2khesun", area:[[-150,120],[-60,40],[80,60],[130,170],[80,280],[-60,300],[-160,230]], kind:"mob", n:"Sanctuary of Khesun", zh:"Khesûn 聖所", x:-6, z:181, src:"ref", zone:"khesun", note:"位置取自參考互動地圖（玩家製作的 Beta 資料；第 2 層座標還沒對過遊戲，可能差幾十格）。" },
+    { id:"f2veins", area:[[110,200],[230,170],[330,220],[320,330],[200,370],[110,300]], kind:"mob", n:"Sablemor Veins", zh:"Sablemor 礦脈", x:225, z:295, src:"ref", zone:"veins", u:1, note:"位置取自參考互動地圖（玩家製作的 Beta 資料；第 2 層座標還沒對過遊戲，可能差幾十格）。" },
+    { id:"f2oasis", area:[[730,220],[800,190],[880,220],[880,300],[800,330],[730,290]], kind:"mob", n:"Secret Oasis", zh:"秘密綠洲", x:798, z:253, src:"ref", zone:"oasis", note:"位置取自參考互動地圖（玩家製作的 Beta 資料；第 2 層座標還沒對過遊戲，可能差幾十格）。" },
     { id:"f2altar", kind:"poi", n:"Altar of Two Moons", zh:"雙月祭壇", x:570, z:-470, src:"ref", note:"位置取自參考互動地圖（玩家製作的 Beta 資料；第 2 層座標還沒對過遊戲，可能差幾十格）。" },
     { id:"f2baobab", kind:"poi", n:"Millennial Baobab", zh:"千年猴麵包樹", x:-88, z:-92, src:"ref", note:"位置取自參考互動地圖（玩家製作的 Beta 資料；第 2 層座標還沒對過遊戲，可能差幾十格）。" },
     { id:"f2tarancave", kind:"poi", n:"Taran Cave", zh:"Taran 洞窟", x:-316, z:-94, u:1, src:"ref", note:"位置取自參考互動地圖（玩家製作的 Beta 資料；第 2 層座標還沒對過遊戲，可能差幾十格）。" },
@@ -274,6 +274,7 @@ addNews(F3,"f3m",{"n_chenenoir": {"n": "Chêne noir", "zh": "黑橡樹", "news":
 ]);
 // END build_mobphotos
 
+// area = rough outline drawn by this site from the wiki map terrain (not the reference map polygons), like floor 1
 // spots that stand for a monster zone list every monster of that zone (wiki + official news)
 [F2,F3].forEach(F=>(F.spots||[]).forEach(sp=>{if(sp.zone){const z=[].concat(sp.zone);sp.mons=F.M.filter(m=>z.includes(m.zone)).map(m=>m.name)}}));
 
@@ -317,7 +318,7 @@ const UNKNOWN = {
 
 return {
   floors: {
-    2: { name:"Urbus", lv:"11–15", boss:"Asterius", status:"new", opened:"2026-11-09", map:{img:"floor2.jpg", size:2124, x0:-1062, z0:-1062, note:"座標換算是推算的（1 像素 = 1 格，地圖中心 = 0, 0），已用主城與城內 NPC 的座標核對。"}, ...F2 },
+    2: { name:"Urbus", lv:"11–15", boss:"Asterius", status:"new", opened:"2026-11-09", map:{img:"floor2.jpg", size:2124, x0:-1062, z0:-1062, clip:{c:500,r:484}, note:"座標換算是推算的（1 像素 = 1 格，地圖中心 = 0, 0），已用主城與城內 NPC 的座標核對。"}, ...F2 },
     3: { name:"Forest of Wavering Mists", lv:"15–19", boss:"Nerius", status:"new", opened:"2026-11-09", map:null, ...F3 }
   },
   extra: EXTRA, unknown: UNKNOWN

diff --git a/changelog.js b/changelog.js
@@ -14,7 +14,10 @@ window.SAO_CHANGELOG=[
   "火焰／雷電鷹身女妖 1% 掉落改成遊戲裡的 Feather of the Little Flame／Little Drop（附遊戲圖示和數值）；第 3 層 10 種怪物補上 100% 掉落的 Corrupted Fragment",
   "第 2 層新增 3 個主線（wiki 11/10）；第 2 層 20 個支線先拿掉（wiki 11/7 已刪除，等遊戲確認後再放回）",
   "第 2 層地圖加上參考互動地圖的城鎮（Urbus、Kaelor、Marome、Taran）、9 個怪物區、3 個地下城入口和 4 個地標（座標還沒對過遊戲）",
-  "地下城分頁列出樓層首領塔（第 1 層狗頭人之塔、第 2 層牛人之塔）；萬聖節活動地下城只在第 1 層列出"]],
+  "地下城分頁列出樓層首領塔（第 1 層狗頭人之塔、第 2 層牛人之塔）；萬聖節活動地下城只在第 1 層列出",
+  "地下城清單依「活動、樓層首領塔、其他地下城」排序，樓層首領塔的卡片用不同底色和標籤；切換樓層時，地下城頁會換成新樓層的內容（原本會留著上一層的）",
+  "第 2 層地圖和第 1 層一樣切成圓形，去掉邊緣的灰色圓點；9 個怪物區加上範圍框線",
+  "地圖用滑鼠滾輪縮放更順（觸控板也是）"]],
  ["2026-11-09",["協作區暫停收件：我們已去信遊戲官方詢問本站資料和圖示的使用方式，收到回覆前，回報表單、提出建議和打包探索地圖暫停使用（網站問題仍可用 GitHub 回報）",
   "探索地圖：地圖上不再有高度和地下城選單。點傳送點或地標，右側資料有「查看地下／室內」（附近有玩家上傳的地下地圖才出現），直接顯示那個地點周圍 320×320 格的地下和室內（所有高度合成一張，和地面一樣的地面高度室內不算），點圖放大",
   "打包探索地圖：選完資料夾先選「更新打包」（只打包網站還沒有的，可以挑方格）或「全地圖打包」（第 1 層的地面、室內・洞穴和地下城全部打包，網站已經有的也一起，不用挑，只抽幾張確認是第 1 層，比較快）；都不含路標（waypoint）",

diff --git a/CLAUDE.md b/CLAUDE.md
@@ -33,7 +33,7 @@
 | `src/build.py` | 加上 doctype 和 head，產生根目錄的 `index.html`。**改完 `src/index.html` 一定要執行** |
 | `index.html` | build 產生的檔案，不要直接改。build 會在每個本地 `<script src="x.js">` 後面加 `?v=內容雜湊`（2026-11-02：GitHub Pages 讓瀏覽器快取 10 分鐘，手機曾拿到新頁面配舊 `npcs.js`，篩選顯示錯的類別名稱）。Apps Script／Actions 直接改的資料檔（reports.js、jmmeta.js、formcfg.js）不會更新雜湊，和以前一樣最多 10 分鐘後更新 |
 | `data.js` | 第 1 層：`window.SAO` = MAP、STATUS、ZONES、M（怪物）、ITEMS、EXTRA、TOWNS、SPOTS、QUESTS |
-| `data23.js` | 第 2、3 層：`SAO23_ITEMS`、`SAO23.floors[2/3]`（第 3 層沒有地圖）。**2026-11-11**：兩層 `status:"new"`（11/9 開放，官網新聞〈Floors 2 and 3 are open!〉 https://saominecraft.com/us/news/paliers-2-et-3-ouverts ；`soonNote`／樓層資訊列寫「資料還沒有遊戲畫面確認」），`lv` 改成新聞的怪物等級 11–15／15–19；第 2 層 20 個支線（wiki 11/7 刪表，使用者選 B）連同只為支線存在的城鎮（Havca、SamaelTVS、Typpe）和撿取點搬到沒在用的 `F2_SIDE_WIKI_OLD`，遊戲確認後可以放回；`// BEGIN build_mobphotos` 區塊是 `tools/build_mobphotos.py` 產生的「只有官網新聞有」的怪物（`addNews`，接在 wiki 怪物後面、id 不變，`news:1`，類型／行為未知＝`Unknown`／`U`，腐化版沿用本體）；鷹身女妖 1% 掉落改遊戲名 Feather of the Little Flame／Drop（遊戲才有的裝備，圖示從 11/5 拍賣場還原），第 3 層 10 隻補 Corrupted Fragment 100%（遊戲物品說明）；第 2、3 層資料整理報告在 scratchpad `f23/report.md`。**第 2 層地點**（使用者 2026-11-11「二層的傳送點、怪物區先參考互動地圖」）：參考地圖 Beta 資料（scratchpad `f23/ref_f23.json`，座標是它自己的 map-local，還沒對過遊戲）：城鎮 Urbus／Kaelor／Marome／Taran（原本暫稱西部／東部／西南聚落，`old`），參考地圖沒有傳送選單，城鎮標「傳送未知」；9 個怪物區和 3 個地下城入口用 `zone`（字串或陣列），`mons` 在檔尾依區域自動填（含新聞怪物）；地標 4 個。地下城分頁現在也列樓層首領塔，萬聖節活動地下城只在第 1 層列 |
+| `data23.js` | 第 2、3 層：`SAO23_ITEMS`、`SAO23.floors[2/3]`（第 3 層沒有地圖）。**2026-11-11**：兩層 `status:"new"`（11/9 開放，官網新聞〈Floors 2 and 3 are open!〉 https://saominecraft.com/us/news/paliers-2-et-3-ouverts ；`soonNote`／樓層資訊列寫「資料還沒有遊戲畫面確認」），`lv` 改成新聞的怪物等級 11–15／15–19；第 2 層 20 個支線（wiki 11/7 刪表，使用者選 B）連同只為支線存在的城鎮（Havca、SamaelTVS、Typpe）和撿取點搬到沒在用的 `F2_SIDE_WIKI_OLD`，遊戲確認後可以放回；`// BEGIN build_mobphotos` 區塊是 `tools/build_mobphotos.py` 產生的「只有官網新聞有」的怪物（`addNews`，接在 wiki 怪物後面、id 不變，`news:1`，類型／行為未知＝`Unknown`／`U`，腐化版沿用本體）；鷹身女妖 1% 掉落改遊戲名 Feather of the Little Flame／Drop（遊戲才有的裝備，圖示從 11/5 拍賣場還原），第 3 層 10 隻補 Corrupted Fragment 100%（遊戲物品說明）；第 2、3 層資料整理報告在 scratchpad `f23/report.md`。**第 2 層地點**（使用者 2026-11-11「二層的傳送點、怪物區先參考互動地圖」）：參考地圖 Beta 資料（scratchpad `f23/ref_f23.json`，座標是它自己的 map-local，還沒對過遊戲）：城鎮 Urbus／Kaelor／Marome／Taran（原本暫稱西部／東部／西南聚落，`old`），參考地圖沒有傳送選單，城鎮標「傳送未知」；9 個怪物區和 3 個地下城入口用 `zone`（字串或陣列），`mons` 在檔尾依區域自動填（含新聞怪物）；地標 4 個。地下城分頁現在也列樓層首領塔（排序：活動 → 首領塔 `isTowerSp`（zh 含「樓層首領」，卡片 `.dgtower`＋「樓層首領塔」標籤）→ 其他），萬聖節活動地下城只在第 1 層列；切樓層時清單沒有目前面板的東西就換成第一個、清單是空的就關掉面板。**第 2 層地圖**：`floor2.jpg` 的 12 個灰色圓點用 OpenCV inpaint 補掉、半徑 1017 外塗黑（原檔 scratchpad `f23/floor2_orig.jpg`），`clip:{c:500,r:484}`；9 個怪物區的 `area` 是本站依 wiki 地圖地形自己描的（不是參考地圖的多邊形）。**滾輪縮放**（使用者 2026-11-11「有延遲感」）：wheel 事件累加、每個動畫畫格只縮放一次（`wheelF`，依 deltaY 連續換算，觸控板也順），縮放中標籤大小變數（`--inv`／`--tk`／`--areaw`）只在倍率變 12% 以上或停下 120 ms 後才更新（`applyVars`），`.world{will-change:transform}` |
 | `bosses.js` | 世界首領 Galiath、獨特怪物 Seraphel、wiki 列的其他首領 |
 | `img/bosses/` | 世界王頁的首領模型圖（2026-11-06，使用者選 A）：官網世界首領頁 2026-11-05 改版成「Bestiary」，「See up close」視窗有 `/da/bestiary/<id>-34.webp`（3/4）和 `-face.webp`（正面），透明背景、高 1024px，伺服器時間台灣 11/5 15:01 上傳。裁到模型範圍、縮成高 520px 的 webp，`bosses.js` 的 `img`／`imgFront`，`bFig` 畫圖框和「3/4／正面」切換；原本的徽章插畫 wb_galiath.jpg／wb_seraphel.jpg 已刪。**只有這兩隻**：用 Playwright 跑過官網 sitemap 全部 23 頁、點開視窗，並用本站 136 個怪物名稱試 `/da/bestiary/<名稱>-34.webp`，都沒有其他怪物；官網的 /bestiary、/monsters、/codex 是 404，/map 暫停（「not available for now」），/aincrad-academy 還沒有課程。官網 Bestiary 的文字資料和 10/30 抓的一樣（輪盤仍是舊的 7 項，本站用遊戲排隊告示的 10 項） |
 | `reports.js` | 已收錄的玩家回報。格式必須維持 `window.SAO_REPORTS = <JSON 陣列>;`，Google 程式會自動讀寫它 |
